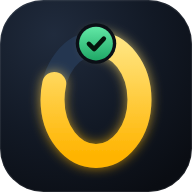
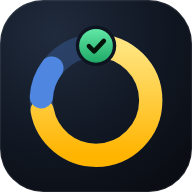
Ícono con círculo de avance amarillo y azul
Claude-Session: https://claude.ai/code/session_01E9W8zMYzHnRCwsSWnMjbYn

Changed region(s): [[0.1562, 0.125, 0.875, 0.9062]]

diff --git a/index.html b/index.html
@@ -290,7 +290,15 @@ footer.fine{font-size:.78rem; color:var(--muted); display:flex; flex-direction:c
 <header class="appbar">
   <div class="appbar-in">
     <div class="brand">
-      <span class="logo" aria-hidden="true"><svg viewBox="0 0 512 512" width="34" height="34"><defs><radialGradient id="dzbg" cx="28%" cy="18%" r="95%"><stop offset="0" stop-color="#202B3D"/><stop offset=".55" stop-color="#121925"/><stop offset="1" stop-color="#0A0D13"/></radialGradient><linearGradient id="dzyl" gradientUnits="userSpaceOnUse" x1="256" y1="116" x2="256" y2="416"><stop offset="0" stop-color="#FFE47E"/><stop offset="1" stop-color="#FFB400"/></linearGradient><linearGradient id="dzgr" x1="0" y1="0" x2="0" y2="1"><stop offset="0" stop-color="#62E8A6"/><stop offset="1" stop-color="#1FA866"/></linearGradient></defs><rect width="512" height="512" rx="116" fill="url(#dzbg)"/><path d="M 256 116 A 116 150 0 1 1 256 416 A 116 150 0 1 1 256 116" fill="none" stroke="#243650" stroke-width="64"/><path d="M 256 116 A 116 150 0 1 1 256 416 A 116 150 0 1 1 256 116" fill="none" stroke="url(#dzyl)" stroke-width="64" stroke-linecap="round" pathLength="100" stroke-dasharray="80 100"/><g transform="translate(256 116)"><circle r="54" fill="#0B0F16"/><circle r="45" fill="url(#dzgr)"/><path d="M -19 1 L -5 15 L 21 -13" fill="none" stroke="#04140B" stroke-width="12" stroke-linecap="round" stroke-linejoin="round"/></g></svg></span>
+      <span class="logo" aria-hidden="true"><svg width="34" height="34" viewBox="0 0 512 512"><defs>
+  <radialGradient id="dzbg" cx="28%" cy="18%" r="95%"><stop offset="0" stop-color="#202B3D"/><stop offset=".55" stop-color="#121925"/><stop offset="1" stop-color="#0A0D13"/></radialGradient>
+  <linearGradient id="dzyl" gradientUnits="userSpaceOnUse" x1="256" y1="122" x2="256" y2="414"><stop offset="0" stop-color="#FFE47E"/><stop offset="1" stop-color="#FFB400"/></linearGradient>
+  <linearGradient id="dzgr" x1="0" y1="0" x2="0" y2="1"><stop offset="0" stop-color="#62E8A6"/><stop offset="1" stop-color="#1FA866"/></linearGradient>
+</defs><rect width="512" height="512" rx="116" fill="url(#dzbg)"/><rect x="1.5" y="1.5" width="509" height="509" rx="114.5" fill="none" stroke="#fff" stroke-opacity=".08" stroke-width="3"/><path d="M 256 122 A 146 146 0 1 1 256 414 A 146 146 0 1 1 256 122" fill="none" stroke="#4F86E0" stroke-opacity=".28" stroke-width="62"/>
+  <path d="M 256 122 A 146 146 0 1 1 256 414 A 146 146 0 1 1 256 122" fill="none" stroke="url(#dzyl)" stroke-width="62" stroke-linecap="round" pathLength="100" stroke-dasharray="72 100"/>
+  <path d="M 256 122 A 146 146 0 1 1 256 414 A 146 146 0 1 1 256 122" fill="none" stroke="#4F86E0" stroke-width="62" stroke-linecap="round" pathLength="100" stroke-dasharray="0 76 9 100"/>
+  <g transform="translate(256 122)"><circle r="54" fill="#0F1520"/><circle r="45" fill="url(#dzgr)"/>
+  <path d="M -19 1 L -5 15 L 21 -13" fill="none" stroke="#04140B" stroke-width="12" stroke-linecap="round" stroke-linejoin="round"/></g></svg></span>
       <div style="min-width:0"><b>Deuda Cero</b><span class="sub"><span class="dot" id="dot"></span><span id="sub">Cargando…</span></span></div>
     </div>
     <button type="button" class="iconbtn" id="themeBtn" aria-label="Cambiar a modo claro"></button>

diff --git a/sw.js b/sw.js
@@ -1,5 +1,5 @@
 /* Deuda Cero: la página se pide primero a internet (para que siempre veas la última versión) y, sin conexión, sale de la copia guardada. */
-const CACHE = "deuda-cero-v2";
+const CACHE = "deuda-cero-v3";
 const CORE = ["./", "./index.html", "./manifest.webmanifest", "./icon-192.png", "./icon-512.png"];
 self.addEventListener("install", e => { e.waitUntil(caches.open(CACHE).then(c => c.addAll(CORE)).then(() => self.skipWaiting())); });
 self.addEventListener("activate", e => {
